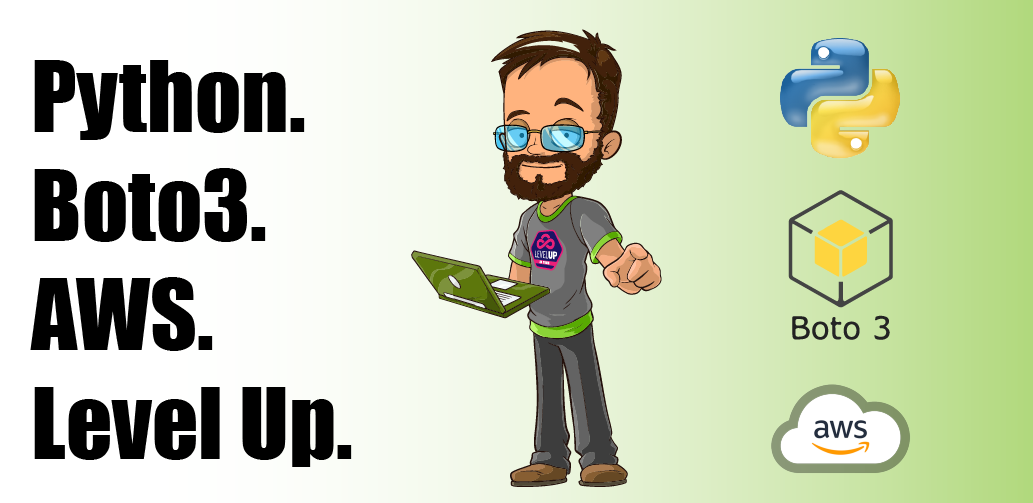
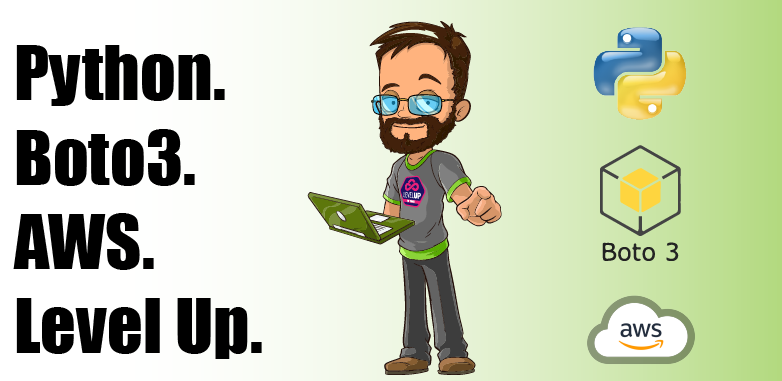
resizing images

diff --git a/index.html b/index.html
@@ -27,164 +27,189 @@
   
   <body>
 
-
-
-      <!--JUMBOTRON-->
-      <div class="jumbotron jumbotron-fluid" style="background-image: linear-gradient(to bottom, rgb(0, 0, 0) 0%, rgb(21, 148, 17))">
-        <div class="container-fluid">
-          <div class="row">
-            <!--PROFILE PIC-->
-            <div class="col-md-3">
-              <img class="responsive" style="border-radius: 50%" width="600" height="200" src="https://slaszloffy-devops-resume.s3.us-east-2.amazonaws.com/images/me.jpg">
+    <!--JUMBOTRON-->
+    <div class="jumbotron jumbotron-fluid" style="background-image: linear-gradient(to bottom, rgb(0, 0, 0) 0%, rgb(21, 148, 17))">
+      <div class="container-fluid">
+        <div class="row">
+          <!--PROFILE PIC-->
+          <div class="col-md-3">
+            <img class="responsive" style="border-radius: 50%; float:right"  width="600" height="200" src="https://slaszloffy-devops-resume.s3.us-east-2.amazonaws.com/images/me.jpg">
+          </div>
+          <!--OTHER HEADER STUFF-->
+          <div class="col-md-9">
+            <div class="position-relative">
+              <h1 style="font-family: gravedigger; color:#32a852">Steven Laszloffy</h1>
             </div>
-            <!--OTHER HEADER STUFF-->
-            <div class="col-md-9">
-              <div class="position-relative">
-                <h1 style="font-family: gravedigger; color:#32a852">Steven Laszloffy</h1>
-              </div>
-              <div class="position-relative">
-                <sh2 style="font-family: gravedigger; color:black;">DevOps Engineer</sh2>
-                <sh1 style="white-space: nowrap">Cloud. Gaming. Level Up.</sh1>
-              </div>
-              <img class="responsive" width="600" height="400" src="https://slaszloffy-devops-resume.s3.us-east-2.amazonaws.com/images/achievement-03-03.svg">
-              <div class="position-relative">
-                <!--RESUME-->
-                <a href="https://slaszloffy-devops-resume.s3.us-east-2.amazonaws.com/files/Steven+Laszloffy+DevOps+SecOps+Resume.pdf" class="btn btn-success btn-md">Resume</button></a>
-                <!--MEDIUM-->
-                <a href="https://medium.com/@s.laszloffy" class="btn btn-success btn-md" role="button">DevOps Portfolio</a>
-                <!--LINKEDIN-->
-                <a href="https://linkedin.com/in/stevenlaszloffy" class="btn btn-success btn-md" role="button">LinkedIn</a>
-                <!--GITHUB-->
-                <a href="https://github.com/vypr907" class="btn btn-success btn-md" role="button">GitHub</a>
-              </div> <!--BUTTONS-->
-            </div> <!--COLUMN 9-->
-          </div> <!--ROW-->
-        </div>
-      </div> <!--JUMBOTRON-->
+            <div class="position-relative">
+              <sh2 style="font-family: gravedigger; color:black;">DevOps Engineer</sh2>
+              <sh1 style="white-space: nowrap">Cloud. Gaming. Level Up.</sh1>
+            </div>
+            <img class="responsive" width="600" height="400" src="https://slaszloffy-devops-resume.s3.us-east-2.amazonaws.com/images/achievement-03-03.svg">
+            <div class="position-relative">
+              <!--RESUME-->
+              <a href="https://slaszloffy-devops-resume.s3.us-east-2.amazonaws.com/files/Steven+Laszloffy+DevOps+SecOps+Resume.pdf" class="btn btn-success btn-md">Resume</button></a>
+              <!--MEDIUM-->
+              <a href="https://medium.com/@s.laszloffy" class="btn btn-success btn-md" role="button">DevOps Portfolio</a>
+              <!--LINKEDIN-->
+              <a href="https://linkedin.com/in/stevenlaszloffy" class="btn btn-success btn-md" role="button">LinkedIn</a>
+              <!--GITHUB-->
+              <a href="https://github.com/vypr907" class="btn btn-success btn-md" role="button">GitHub</a>
+            </div> <!--BUTTONS-->
+          </div> <!--COLUMN 9-->
+        </div> <!--ROW-->
+      </div>
+    </div> <!--JUMBOTRON-->
     
 
-      <!--CAROUSEL ATTEMPT-->
-      <div class="row">
-        <!--left spacer column-->
-        <div class="col-md-2"></div>
-        <!-- CAROUSEL COLUMN-->
-        <div class="col-md-8">
-          <container>
-            <div id="myCarousel" class="carousel slide" data-ride="carousel">
-              <!--INDICATORS-->
-              <ol class="carousel-indicators">
-                <li data-target="#myCarousel" data-slide-to="0" class="active"></li>
-                <li data-target="#myCarousel" data-slide-to="1"></li>
-                <li data-target="#myCarousel" data-slide-to="2"></li>
-                <li data-target="#myCarousel" data-slide-to="3"></li>
-                <li data-target="#myCarousel" data-slide-to="4"></li>
-              </ol>
-              <!--WRAPPER FOR SLIDES-->
-              <div class="carousel-inner">
-                <div class="carousel-item active">
-                  <img class="d-block w-100" src="https://slaszloffy-devops-resume.s3.us-east-2.amazonaws.com/images/proj17_Site+Carousel.png" alt="First slide">
-                  <div class="carousel-caption d-none d-md-block">
-                    <h5>This is a caption</h5>
-                    <p>description of project here</p>
-                  </div>
+    <!--CAROUSEL ATTEMPT-->
+    <div class="row">
+      <!--left spacer column-->
+      <div class="col-md-2"></div>
+      <!-- CAROUSEL COLUMN-->
+      <div class="col-md-8">
+        <container>
+          <div id="myCarousel" class="carousel slide" data-ride="carousel">
+            <!--INDICATORS-->
+            <ol class="carousel-indicators">
+              <li data-target="#myCarousel" data-slide-to="0" class="active"></li>
+              <li data-target="#myCarousel" data-slide-to="1"></li>
+              <li data-target="#myCarousel" data-slide-to="2"></li>
+              <li data-target="#myCarousel" data-slide-to="3"></li>
+              <li data-target="#myCarousel" data-slide-to="4"></li>
+            </ol>
+            <!--WRAPPER FOR SLIDES-->
+            <div class="carousel-inner">
+              <div class="carousel-item active">
+                <img class="d-block w-100" src="https://slaszloffy-devops-resume.s3.us-east-2.amazonaws.com/images/proj17_Site+Carousel.png" alt="First slide">
+                <div class="carousel-caption d-none d-md-block">
+                  <a href="https://faun.pub/closing-time-with-python-49d0f50b012b">Closing Time with Python</a>
+                  <p>Utilizing Python and boto3, created paired scripts that created 'n' AWS EC2 instances, then terminated all tagged instances.</p>
                 </div>
-
-                <div class="carousel-item">
-                  <img class="d-block w-100" src="https://slaszloffy-devops-resume.s3.us-east-2.amazonaws.com/images/proj18_Site+Carousel.png" alt="Second slide">
-                  <div class="carousel-caption d-none d-md-block">
-                    <h5>This is a caption</h5>
-                    <p>description of project here</p>
-                  </div>
-                </div>
-
-                <div class="carousel-item">
-                  <img class="d-block w-100" src="https://slaszloffy-devops-resume.s3.us-east-2.amazonaws.com/images/proj08_Site+Carousel.png" alt="Third slide">
-                  <div class="carousel-caption d-none d-md-block">
-                    <h5>This is a caption</h5>
-                    <p>description of project here</p>
-                  </div>
-                </div>
-
-                <div class="carousel-item">
-                  <img class="d-block w-100" src="https://slaszloffy-devops-resume.s3.us-east-2.amazonaws.com/images/proj21_Site+Carousel.png" alt="First slide">
-                  <div class="carousel-caption d-none d-md-block">
-                    <h5>This is a caption</h5>
-                    <p>description of project here</p>
-                  </div>
-                </div>
-
-                <div class="carousel-item">
-                  <img class="d-block w-100" src="https://slaszloffy-devops-resume.s3.us-east-2.amazonaws.com/images/proj24_Site+Carousel.png" alt="Second slide">
-                  <div class="carousel-caption d-none d-md-block">
-                    <h5>This is a caption</h5>
-                    <p>description of project here</p>
-                  </div>
-                </div>
-                
-              <!--L/R CONTROLS-->  
               </div>
-              <a class="carousel-control-prev" href="#myCarousel" role="button" data-slide="prev">
-                <span class="carousel-control-prev-icon" aria-hidden="true"></span>
-                <span class="sr-only">Previous</span>
-              </a>
-              <a class="carousel-control-next" href="#myCarousel" role="button" data-slide="next">
-                <span class="carousel-control-next-icon" aria-hidden="true"></span>
-                <span class="sr-only">Next</span>
-              </a>
-            </div><!--L/R CONTROLS-->
-          </container>
-        </div>
-        <div class="col-md-2"></div>
+
+              <div class="carousel-item">
+                <img class="d-block w-100" src="https://slaszloffy-devops-resume.s3.us-east-2.amazonaws.com/images/proj18_Site+Carousel.png" alt="Second slide">
+                <div class="carousel-caption d-none d-md-block">
+                  <h5>This is a caption</h5>
+                  <p>description of project here</p>
+                </div>
+              </div>
+
+              <div class="carousel-item">
+                <img class="d-block w-100" src="https://slaszloffy-devops-resume.s3.us-east-2.amazonaws.com/images/proj08_Site+Carousel.png" alt="Third slide">
+                <div class="carousel-caption d-none d-md-block">
+                  <h5>This is a caption</h5>
+                  <p>description of project here</p>
+                </div>
+              </div>
+
+              <div class="carousel-item">
+                <img class="d-block w-100" src="https://slaszloffy-devops-resume.s3.us-east-2.amazonaws.com/images/proj21_Site+Carousel.png" alt="First slide">
+                <div class="carousel-caption d-none d-md-block">
+                  <h5>This is a caption</h5>
+                  <p>description of project here</p>
+                </div>
+              </div>
+
+              <div class="carousel-item">
+                <img class="d-block w-100" src="https://slaszloffy-devops-resume.s3.us-east-2.amazonaws.com/images/proj24_Site+Carousel.png" alt="Second slide">
+                <div class="carousel-caption d-none d-md-block">
+                  <h5>This is a caption</h5>
+                  <p>description of project here</p>
+                </div>
+              </div>
+              
+            <!--L/R CONTROLS-->  
+            </div>
+            <a class="carousel-control-prev" href="#myCarousel" role="button" data-slide="prev">
+              <span class="carousel-control-prev-icon" aria-hidden="true"></span>
+              <span class="sr-only">Previous</span>
+            </a>
+            <a class="carousel-control-next" href="#myCarousel" role="button" data-slide="next">
+              <span class="carousel-control-next-icon" aria-hidden="true"></span>
+              <span class="sr-only">Next</span>
+            </a>
+          </div><!--L/R CONTROLS-->
+        </container>
       </div>
+      <div class="col-md-2"></div>
+    </div>
 
       
-
-	<div class="row"> <!--ABOUT ME ROW-->
-      <div class="col-sm-6">
-        <h3 style="font-family: gravedigger">About Me</h3>
-        <p>A passionate Cloud/DevOps Engineer with 8+ years of IT experience. Seeking to level up, I have a proven track record of excellence, process improvement, and problem-solving. </p>
-        <p>This next quest into the cloud has equipped me with tools such as Python, Docker, Terraform, and Amazon Web Services (AWS). I can't wait to build with these tools!</p>
-      </div>
-      <div class="col-sm-3">
-        <h3 style="font-family: gravedigger">Published:</h3>
-        <p>Level Up Coding</p>
-        <p>FAUN</p>
-        <p>Better Programming</p>
-        <p>Towards AWS</p>
-        <p>Dev Genius</p>
-        <p>AWS in Plain English</p>
-        <p>AWS Tip</p>
-        <p>phpops</p>
-      </div>
-      <div class="col-sm-3">
-        <img src="https://slaszloffy-devops-resume.s3.us-east-2.amazonaws.com/images/Asset+2.png" class="rounded float-right"; class="img-fluid">
-      </div>
-    </div> <!--ABOUT ME ROW-->
+    
+      <div class="row"> <!--ABOUT ME ROW-->
+        <div class="col-sm-6">
+          <h3 style="font-family: gravedigger">About Me</h3>
+          <p>A passionate Cloud/DevOps Engineer with 8+ years of IT experience. Seeking to level up, I have a proven track record of excellence, process improvement, and problem-solving. </p>
+          <p>This next quest into the cloud has equipped me with tools such as Python, Docker, Terraform, and Amazon Web Services (AWS). I can't wait to build with these tools!</p>
+        </div>
+        <div class="col-sm-3">
+          <h3 style="font-family: gravedigger">Published:</h3>
+          <p>Level Up Coding</p>
+          <p>FAUN</p>
+          <p>Better Programming</p>
+          <p>Towards AWS</p>
+          <p>Dev Genius</p>
+          <p>AWS in Plain English</p>
+          <p>AWS Tip</p>
+          <p>phpops</p>
+        </div>
+        <div class="col-md-3">
+          <img src="https://slaszloffy-devops-resume.s3.us-east-2.amazonaws.com/images/Asset+2.png" class="float-right" class="img-fluid">
+        </div>
+      </div> <!--ABOUT ME ROW-->
+    
+	
 
     <!--EXPERIENCE-->
-    <div class="row">
-      <div class="col-md-10"><!--JOBS-->
-        <h3 style="font-family: gravedigger">Experience</h3>
-        <div class="col-md-2"><!--JOB ICON-->
+    <div class="container"><!--EXP CONTAINER-->
+      <div class="row"><!--EXP ROW-->
+        <div class="col-md-10"><!--JOBS-->
+          <h3 style="font-family: gravedigger">Experience</h3>
+          <div class="container">
+            <div class="row"><!--BAY ROW-->
+              <div class="col-md-2"><!--BAY ICON-->
+                <img style="width:80px; float:right" src="https://slaszloffy-devops-resume.s3.us-east-2.amazonaws.com/images/BC+Vert+SQ.png" alt="bay college logo">
+              </div>
+              <div class="col-md-8"><!--BAY ENTRY-->
+                <sh2>Bay de Noc Community College</sh2>
+                <p>HELP DESK MANAGER</p>
+                <p>• Lead a team of 6 to support Help Desk operations across 2 campuses accounting for 27 Level 1 ticket resolutions per week. Navigate custom built tools, Active Directory, and SCCM.</p>
+                <p>• Developed documentation processes and new hire training curriculum to enable remote onboarding and standardization of services.</p>
+                <p>• Launched Discord server for IT Department, enabling mobile communications and reducing critical communication delays between Campus entities.</p>
+                <p>TECHNICAL SUPPORT SPECIALIST</p>
+                <p>• Spearheaded IT Support operations for 100+ Faculty and Staff, 2,500+ student body, and external contract clients.</p>
+                <p>• Extended user support documentation, empowering end-users to extend skills, leverage system features, and find resolutions to questions without intervention from the support team.</p>
+                <p>• Validated and reported on 350 item asset compliance list for the Network and Admin teams.</p>
+              </div>
+              <div class="w-100"></div>
+              <div class="col-md-2"></div>
+              <div class="col-md-8">
+                <sh2>USAF/Air National Guard</sh2>
+                <p>CYBER DEFENSE OPERATIONS - CRAFTSMAN</p>
+                <p>• Coordinate training for 168th and 176th Communications Flight's Cybersecurity Teams in advance of the 2023 Joint DoD CyberShield Conference and Attack/Defense Exercise.</p>
+                <p>CYBER CLIENT SYSTEMS TECHNICIAN</p>
+                <p>• Cultivated communication for Active Duty/Air National Guard classified information network. Ensured mission-critical access for qualified users.</p>
+                <p>• Launched Training process and documentation for Wing Mobile Device Management program.</p>
+                <p>• Debugged EOM/DEPCON System upgrade/deployment. Enabled full automation, saving ~1000 hours annually. Drafted documentation, briefed Active Duty counterparts on process automation.</p>
+                <p>• Developed a debit card/POS/banking simulator using Excel and VBA for the 168th Comptroller Flight.</p>
+              </div>
+            </div><!--BAY ROW-->
+            
+          </div><!--END JOBS CONTAINER-->
+        </div><!--END JOBS COLUMN-->
 
-        </div>
-        <div class="col-md-8"><!--JOB ENTRY-->
-          <sh2>Bay de Noc Community College</sh2>
-          <p>HELP DESK MANAGER</p>
-          <p>• Lead a team of 6 to support Help Desk operations across 2 campuses accounting for 27 Level 1 ticket resolutions per week. Navigate custom built tools, Active Directory, and SCCM.</p>
-          <p>• Developed documentation processes and new hire training curriculum to enable remote onboarding and standardization of services.</p>
-          <p>• Launched Discord server for IT Department, enabling mobile communications and reducing critical communication delays between Campus entities.</p>
-        </div>
-      </div>
-      <div class="col-md-2"><!--SKILLS-->
-        <h3>H3</h3>
-        <p>p</p>
-        <h2>h2</h2>
-        <h1>h1</h1>
-        <sh1>sh1</sh1>
-        <sh2>sh2</sh2>
-      </div>
-    </div>
+        <div class="col-md-2"><!--SKILLS-->
+          <h3 style="font-family: gravedigger">Skills</h3>
+          <h3>H3</h3>
+          <p>p</p>
+          <h2>h2</h2>
+          <h1>h1</h1>
+          <sh1>sh1</sh1>
+          <sh2>sh2</sh2>
+        </div><!--END SKILLS-->
+      </div><!--END EXP ROW-->
+    </div><!--END EXP CONTAINER-->
   
     <!--SCRIPT FOR CAROUSEL-->
     <script>

diff --git a/files/stylesheet.css b/files/stylesheet.css
@@ -69,4 +69,3 @@ sh2 {
     font-family: "caveat", sans-serif;
     font-size: large;
 }
-
